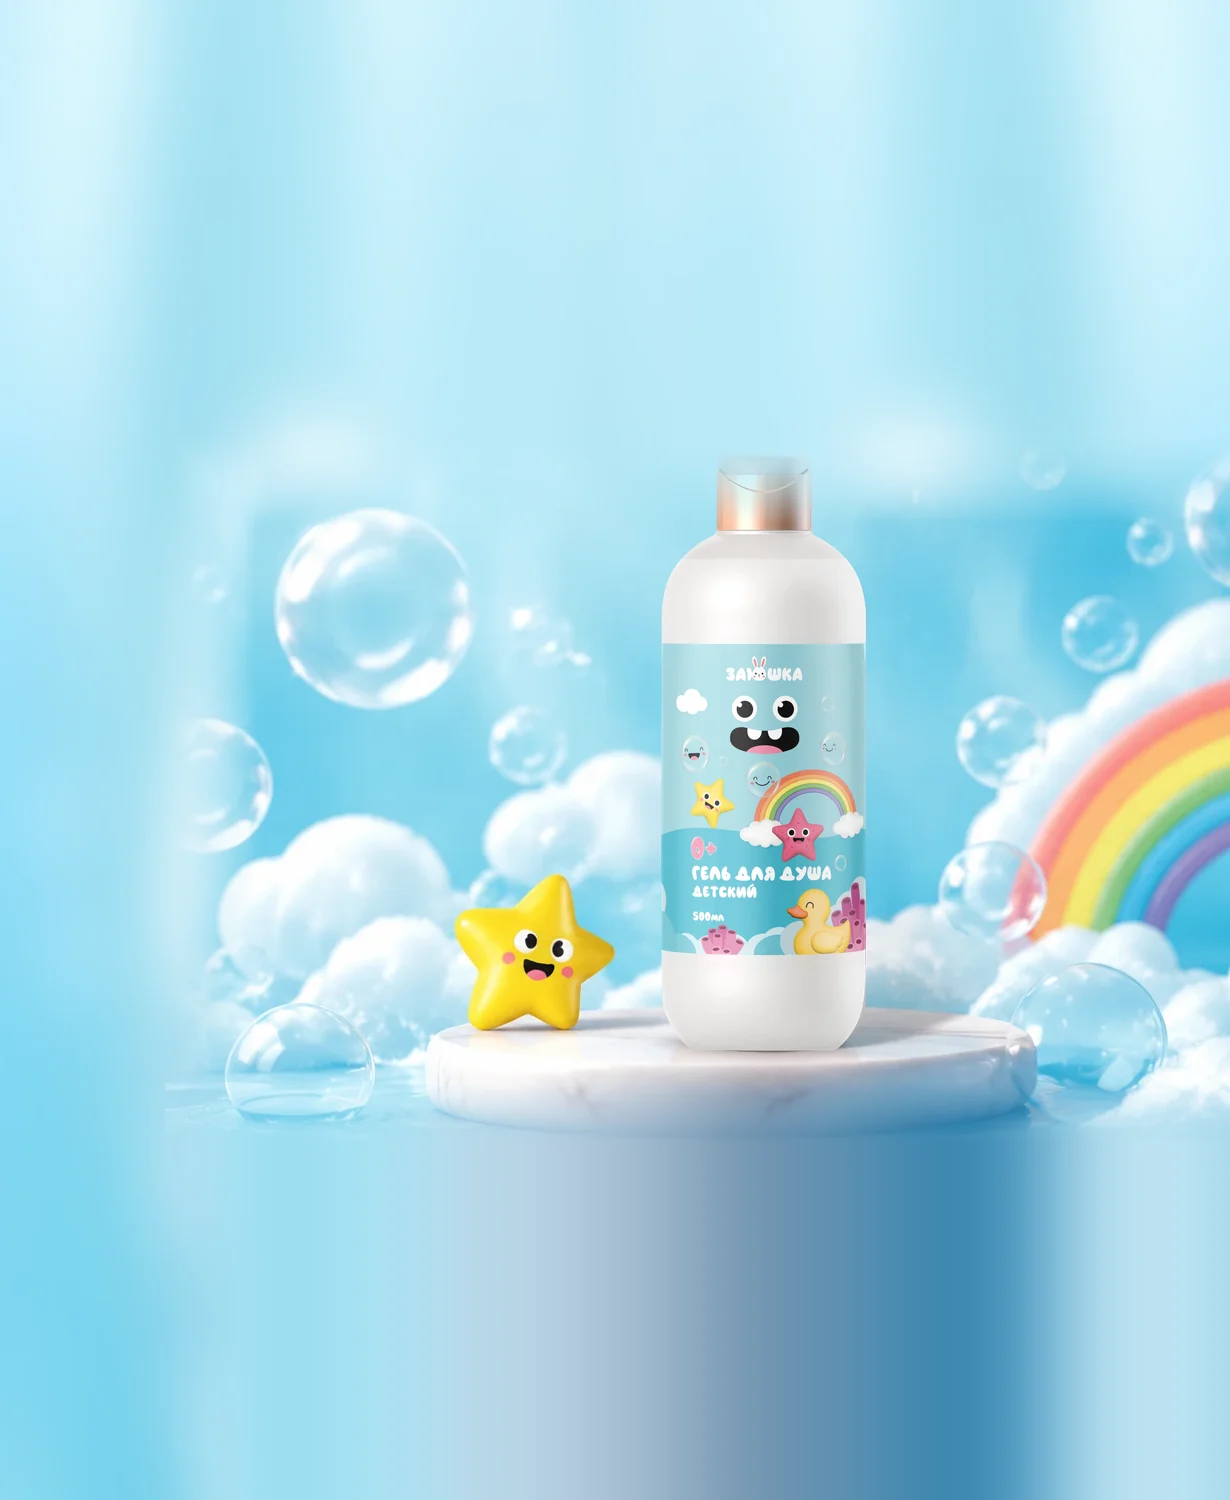
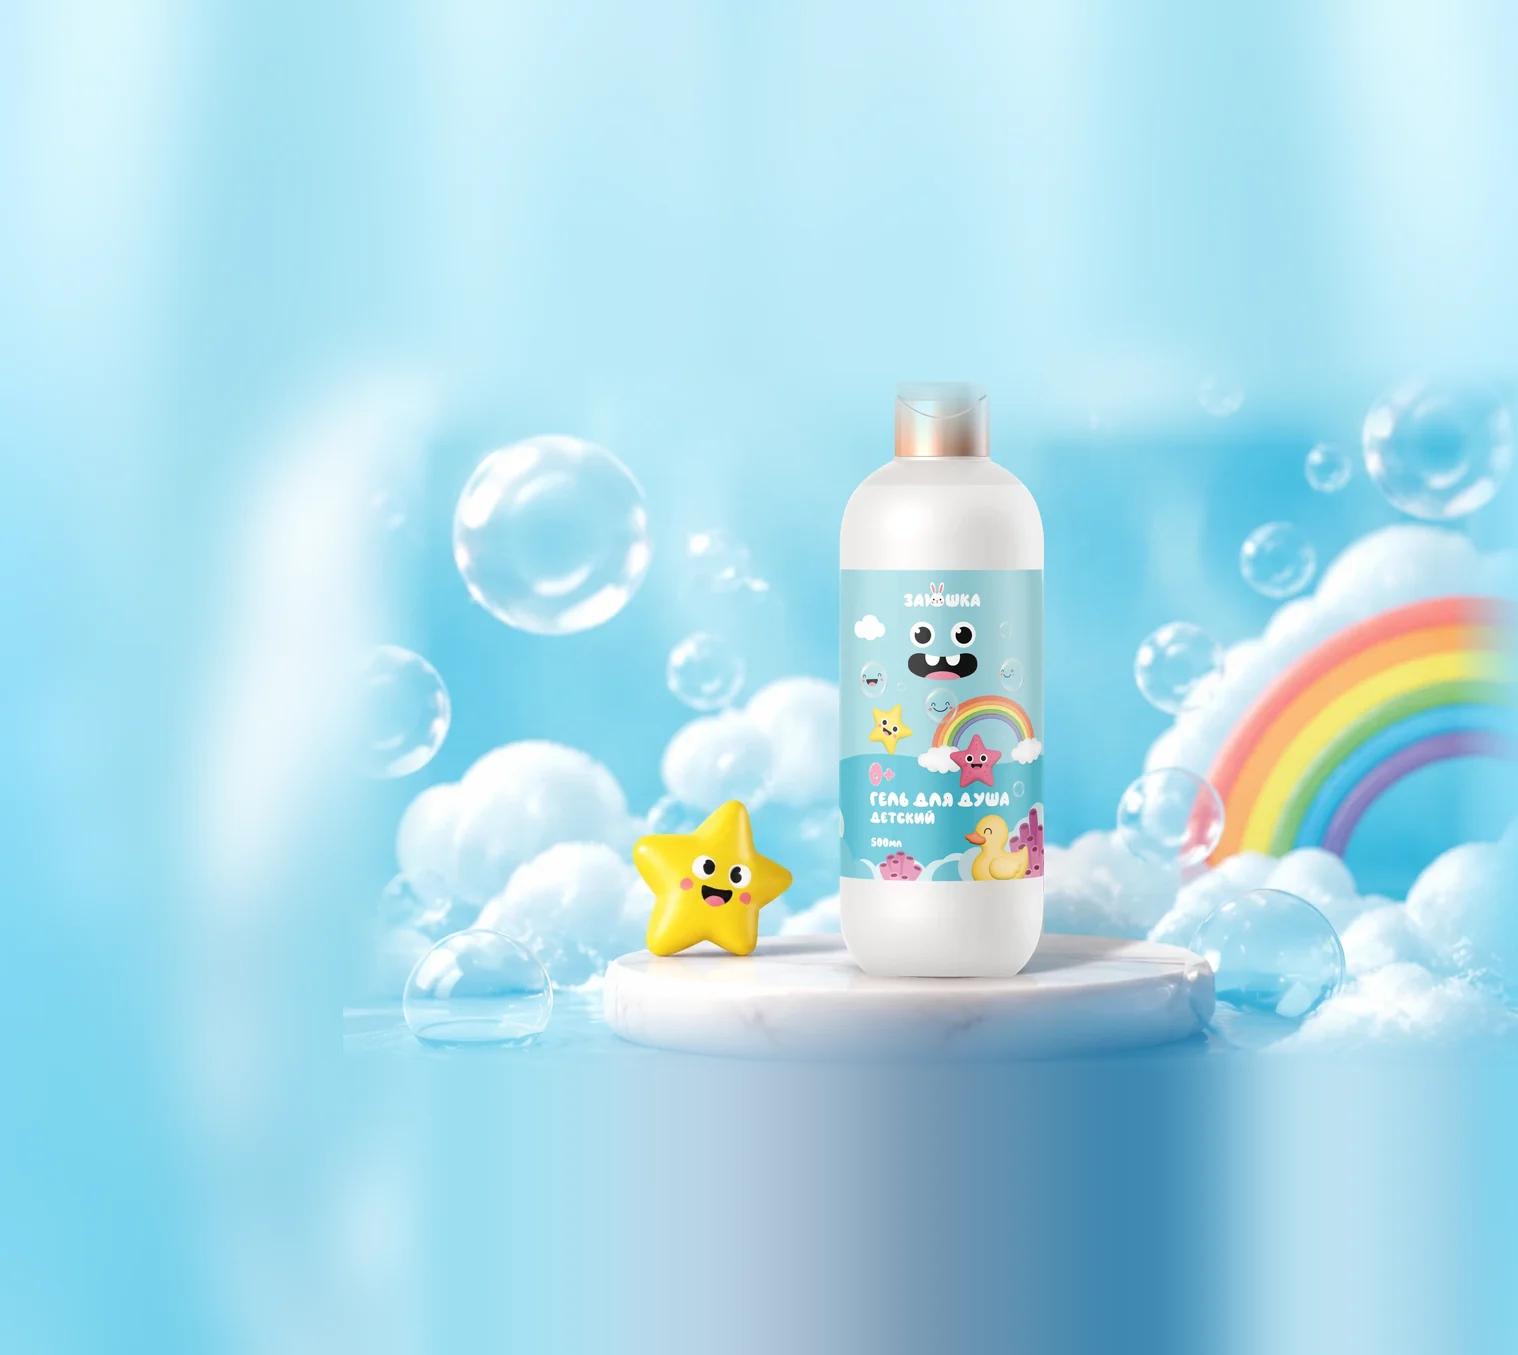
Карточки с фотосценами: картинка вписывается по высоте, товар виден целиком на любом экране
Claude-Session: https://claude.ai/code/session_01NrjMZLUvLXUEoWuvL9qRjd

Changed region(s): [[0.1545, 0.279, 1.0, 1.0], [0.2163, 0.8679, 0.278, 0.9609]]

diff --git a/v7/index.html b/v7/index.html
@@ -65,19 +65,19 @@
 
   <section class="cats" id="catalog" aria-label="Категории продукции">
     <div class="container cats__grid">
-      <a class="cat cat--melta bubbles cat--photo" href="catalog.html?cat=kosmetika" style="--photo: url(../assets/products/cat-kosmetika.webp)">
+      <a class="cat cat--melta bubbles cat--photo" href="catalog.html?cat=kosmetika" style="--photo: url(../assets/products/cat-kosmetika.webp?v=2)">
         <span class="cat__title">Косметика<br>и уход</span>
         <span class="cat__sub">Кремы, гели<br>и мыло</span>
         <span class="cat__go">Перейти <svg class="arrow" aria-hidden="true"><use href="#arrow"/></svg></span>
         <span class="cat__stage" aria-hidden="true"><i class="cb cb--1"></i><i class="cb cb--2"></i><i class="cb cb--3"></i></span>
       </a>
-      <a class="cat cat--biolut bubbles cat--photo" href="catalog.html?cat=bytovaya-himiya" style="--photo: url(../assets/products/cat-himiya.webp?v=2)">
+      <a class="cat cat--biolut bubbles cat--photo" href="catalog.html?cat=bytovaya-himiya" style="--photo: url(../assets/products/cat-himiya.webp?v=3)">
         <span class="cat__title">Бытовая<br>химия</span>
         <span class="cat__sub">Стирка, посуда<br>и уборка</span>
         <span class="cat__go">Перейти <svg class="arrow" aria-hidden="true"><use href="#arrow"/></svg></span>
         <span class="cat__stage" aria-hidden="true"><i class="cb cb--1"></i><i class="cb cb--2"></i><i class="cb cb--3"></i></span>
       </a>
-      <a class="cat cat--kids bubbles cat--photo" href="catalog.html?cat=detskaya" style="--photo: url(../assets/products/cat-kids.webp)">
+      <a class="cat cat--kids bubbles cat--photo" href="catalog.html?cat=detskaya" style="--photo: url(../assets/products/cat-kids.webp?v=2)">
         <span class="cat__title">Для детей</span>
         <span class="cat__sub">Нежный уход<br>и чистота</span>
         <span class="cat__go">Перейти <svg class="arrow" aria-hidden="true"><use href="#arrow"/></svg></span>

diff --git a/v7/styles.css b/v7/styles.css
@@ -671,7 +671,7 @@ h1, h2, h3 { margin: 0; }
 @media (max-width: 640px) { .cp__sort select { padding: 0 30px 0 14px; background-position: right 10px center; font-size: 13px; } }
 
 /* карточка категории с фотосценой (сцена — фон, товар — оригинал) */
-.cat--photo { background: #FBD3A2 var(--photo) center bottom / cover no-repeat; transition: transform .25s, box-shadow .25s, background-size .5s; }
+.cat--photo { background: #FBD3A2 var(--photo) 72% bottom / auto 100% no-repeat; transition: transform .25s, box-shadow .25s, background-size .5s; }
 .cat--photo .cat__sub { max-width: 48% !important; }
 .cat--biolut.cat--photo { background-color: #D9CBF6; }
 .cat--biolut.cat--photo .cat__sub { max-width: 60% !important; }
